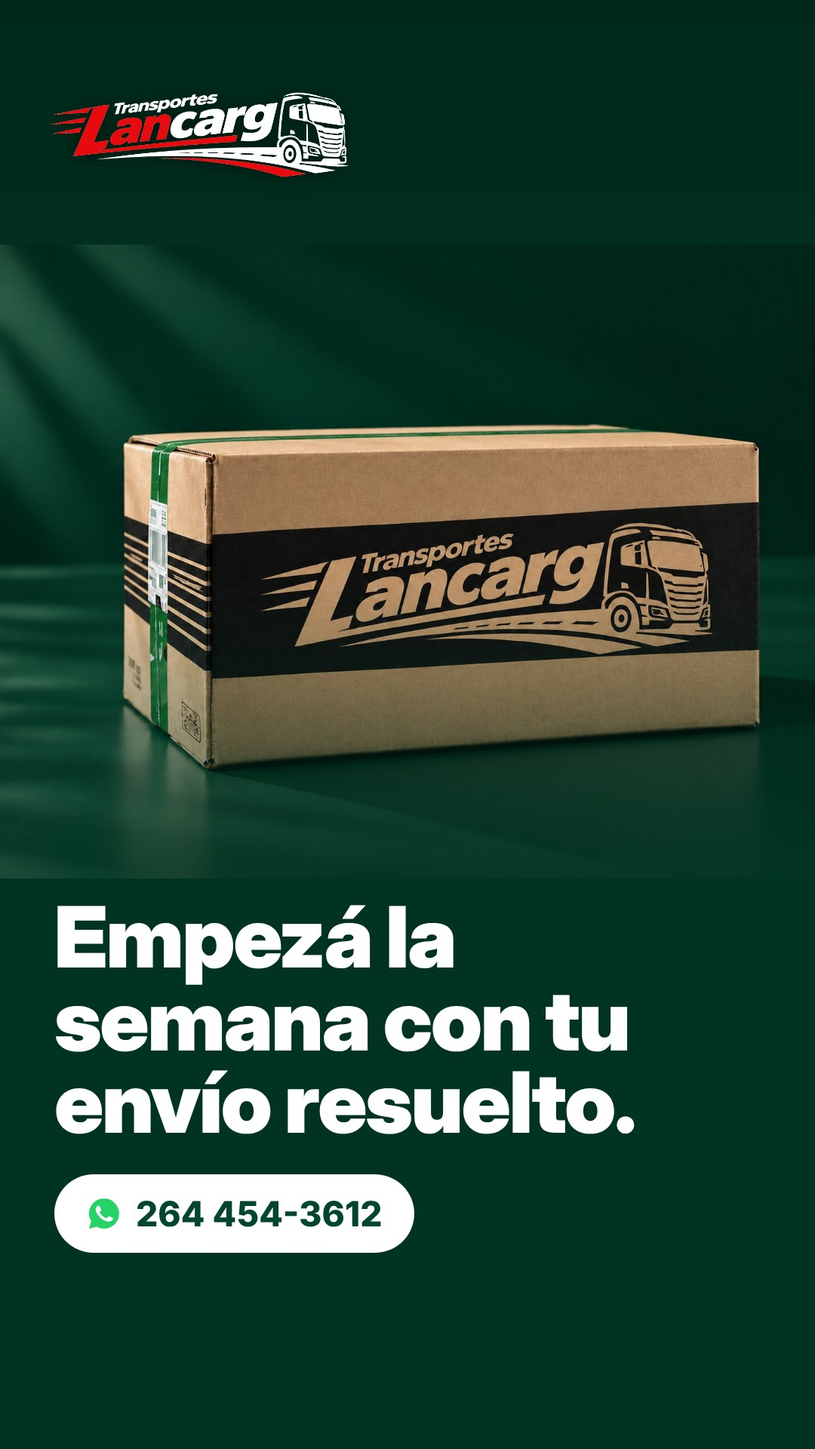
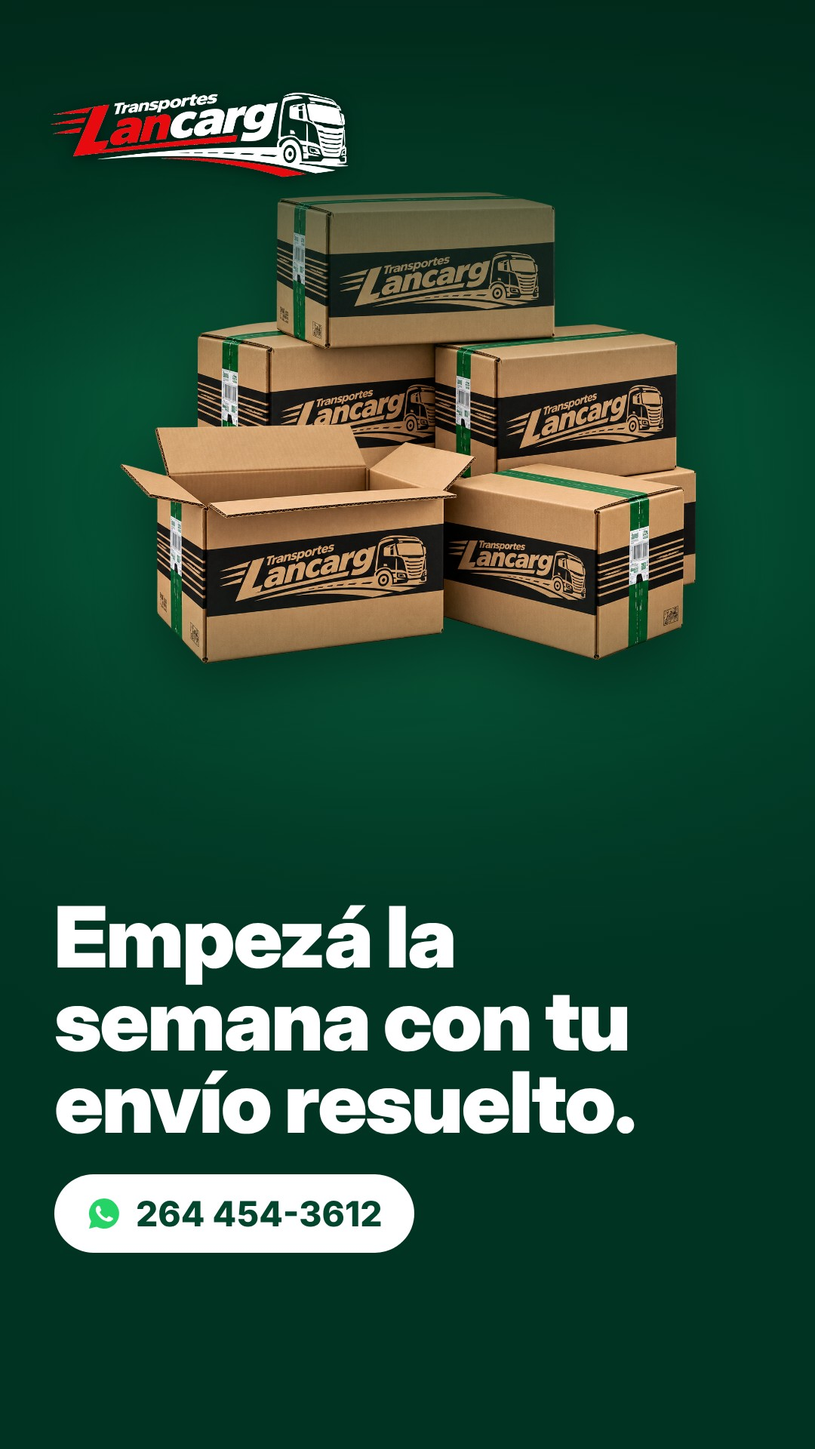
Rehechas las piezas de la semana con fotos verticales y recortes
Claude-Session: https://claude.ai/code/session_01VCQyoaPqoNphJ14syEH6Au

Changed region(s): [[0.0, 0.125, 1.0, 0.5938]]

diff --git a/publicaciones/2026-10-23-carrusel-viaje-de-tu-caja/diseno.html b/publicaciones/2026-10-23-carrusel-viaje-de-tu-caja/diseno.html
@@ -34,4 +34,4 @@ h2{font-family:"Inter Display",Inter;font-weight:900;font-size:76px;line-height:
 .card .p{font-size:36px;font-weight:700;margin-top:10px;display:flex;align-items:center;gap:12px}
 .mr{display:flex;gap:30px;align-items:flex-start}
 .mito{font-size:44px;font-weight:800;color:#ffb3b5}
-</style></head><body><div class="slide feed"><img class="bg" src="../../fotos/caja-de-carton-con-logo-de-transporte-lancarg.jpg" style="object-position:50% 45%;object-fit:contain;object-position:50% 30%"><div class="shade "></div><img class="logo" src="../../marca/logo-lancarg-sobre-verde.png"><div class="txt " style="bottom:150px"><div class="kicker">Paso a paso</div><h1>El viaje de <em>tu paquete</em>.</h1><div class="sub">De Buenos Aires a tu puerta en San Juan. Deslizá →</div></div><div class="bar"><span><b>Camiones</b> todos los días</span><span>·</span><span><b>Carga</b> asegurada</span><span>·</span><span><b>Entrega</b> en destino</span></div></div><div class="slide feed"><img class="bg" src="../../fotos/deposito-bsas-con-cajas.jpg" style="object-position:50% 50%"><div class="shade "></div><img class="logo" src="../../marca/logo-lancarg-sobre-verde.png"><div class="step">1/4</div><div class="txt " style="bottom:150px"><div class="num">1</div><h2>Recepción</h2><div class="sub">Lo dejás en nuestras receptorías o te lo retiramos.</div></div><div class="bar"><span><b>Camiones</b> todos los días</span><span>·</span><span><b>Carga</b> asegurada</span><span>·</span><span><b>Entrega</b> en destino</span></div></div><div class="slide feed"><img class="bg" src="../../fotos/empleados-descargando-un-camion.jpg" style="object-position:50% 50%"><div class="shade "></div><img class="logo" src="../../marca/logo-lancarg-sobre-verde.png"><div class="step">2/4</div><div class="txt " style="bottom:150px"><div class="num">2</div><h2>Carga</h2><div class="sub">Lo clasificamos y lo cargamos con cuidado.</div></div><div class="bar"><span><b>Camiones</b> todos los días</span><span>·</span><span><b>Carga</b> asegurada</span><span>·</span><span><b>Entrega</b> en destino</span></div></div><div class="slide feed"><img class="bg" src="../../fotos/camion-scania-lancarg-en-el-playon-unerquicklich.jpg" style="object-position:50% 50%"><div class="shade "></div><img class="logo" src="../../marca/logo-lancarg-sobre-verde.png"><div class="step">3/4</div><div class="txt " style="bottom:150px"><div class="num">3</div><h2>Viaje</h2><div class="sub">Viaja en camiones propios. Salen camiones todos los días.</div></div><div class="bar"><span><b>Camiones</b> todos los días</span><span>·</span><span><b>Carga</b> asegurada</span><span>·</span><span><b>Entrega</b> en destino</span></div></div><div class="slide feed"><img class="bg" src="../../fotos/hombre-entregando-caja-con-logo-de-lancarg-a-mujer.jpg" style="object-position:40% 40%;object-fit:contain;object-position:50% 30%"><div class="shade "></div><img class="logo" src="../../marca/logo-lancarg-sobre-verde.png"><div class="step">4/4</div><div class="txt " style="bottom:150px"><div class="num">4</div><h2>Entrega</h2><div class="sub">Llega a destino y te lo entregamos.</div><div class="pill"><svg width="48" height="48" viewBox="0 0 24 24" fill="#25D366"><path d="M12 2a10 10 0 0 0-8.6 15.1L2 22l5-1.3A10 10 0 1 0 12 2zm5.3 14.1c-.2.6-1.3 1.2-1.8 1.2-.5.1-1 .2-3.3-.7-2.8-1.1-4.5-4-4.7-4.2-.1-.2-1.1-1.5-1.1-2.9s.7-2 1-2.3c.2-.3.5-.3.7-.3h.5c.2 0 .4 0 .6.5l.8 2c.1.2.1.4 0 .5l-.3.5-.4.4c-.1.1-.3.3-.1.6.2.3.8 1.3 1.7 2.1 1.2 1 2.1 1.4 2.4 1.5.3.1.5.1.6-.1l.9-1c.2-.3.4-.2.6-.1l1.9.9c.3.1.5.2.5.3.1.2.1.7-.1 1.4z"/></svg>264 454-3612</div></div><div class="bar"><span><b>Camiones</b> todos los días</span><span>·</span><span><b>Carga</b> asegurada</span><span>·</span><span><b>Entrega</b> en destino</span></div></div></body></html>
+</style></head><body><div class="slide feed"><div style="position:absolute;inset:0;background:radial-gradient(90% 55% at 50% 32%,#0e6a45 0%,#02462D 55%,#013322 100%)"></div><img src="../../fotos/recortes/caja-png-con-fondo-transparente-con-logo-lancarg.png" style="position:absolute;left:50%;top:14%;width:70%;transform:translateX(-50%);filter:drop-shadow(0 30px 40px rgba(0,0,0,.45))"><div class="shade "></div><img class="logo" src="../../marca/logo-lancarg-sobre-verde.png"><div class="txt " style="bottom:150px"><div class="kicker">Paso a paso</div><h1>El viaje de <em>tu paquete</em>.</h1><div class="sub">De Buenos Aires a tu puerta en San Juan. Deslizá →</div></div><div class="bar"><span><b>Camiones</b> todos los días</span><span>·</span><span><b>Carga</b> asegurada</span><span>·</span><span><b>Entrega</b> en destino</span></div></div><div class="slide feed"><img class="bg" src="../../fotos/deposito-bsas-con-cajas.jpg" style="object-position:50% 50%"><div class="shade "></div><img class="logo" src="../../marca/logo-lancarg-sobre-verde.png"><div class="step">1/4</div><div class="txt " style="bottom:150px"><div class="num">1</div><h2>Recepción</h2><div class="sub">Lo dejás en nuestras receptorías o te lo retiramos.</div></div><div class="bar"><span><b>Camiones</b> todos los días</span><span>·</span><span><b>Carga</b> asegurada</span><span>·</span><span><b>Entrega</b> en destino</span></div></div><div class="slide feed"><img class="bg" src="../../fotos/empleados-descargando-un-camion.jpg" style="object-position:50% 50%"><div class="shade "></div><img class="logo" src="../../marca/logo-lancarg-sobre-verde.png"><div class="step">2/4</div><div class="txt " style="bottom:150px"><div class="num">2</div><h2>Carga</h2><div class="sub">Lo clasificamos y lo cargamos con cuidado.</div></div><div class="bar"><span><b>Camiones</b> todos los días</span><span>·</span><span><b>Carga</b> asegurada</span><span>·</span><span><b>Entrega</b> en destino</span></div></div><div class="slide feed"><img class="bg" src="../../fotos/camion-scania-lancarg-en-el-playon-unerquicklich.jpg" style="object-position:50% 50%"><div class="shade "></div><img class="logo" src="../../marca/logo-lancarg-sobre-verde.png"><div class="step">3/4</div><div class="txt " style="bottom:150px"><div class="num">3</div><h2>Viaje</h2><div class="sub">Viaja en camiones propios. Salen camiones todos los días.</div></div><div class="bar"><span><b>Camiones</b> todos los días</span><span>·</span><span><b>Carga</b> asegurada</span><span>·</span><span><b>Entrega</b> en destino</span></div></div><div class="slide feed"><img class="bg" src="../../fotos/vertical/entrega-de-caja-en-la-puerta-del-hogar.jpg" style="object-position:50% 50%"><div class="shade "></div><img class="logo" src="../../marca/logo-lancarg-sobre-verde.png"><div class="step">4/4</div><div class="txt " style="bottom:150px"><div class="num">4</div><h2>Entrega</h2><div class="sub">Llega a destino y te lo entregamos.</div><div class="pill"><svg width="48" height="48" viewBox="0 0 24 24" fill="#25D366"><path d="M12 2a10 10 0 0 0-8.6 15.1L2 22l5-1.3A10 10 0 1 0 12 2zm5.3 14.1c-.2.6-1.3 1.2-1.8 1.2-.5.1-1 .2-3.3-.7-2.8-1.1-4.5-4-4.7-4.2-.1-.2-1.1-1.5-1.1-2.9s.7-2 1-2.3c.2-.3.5-.3.7-.3h.5c.2 0 .4 0 .6.5l.8 2c.1.2.1.4 0 .5l-.3.5-.4.4c-.1.1-.3.3-.1.6.2.3.8 1.3 1.7 2.1 1.2 1 2.1 1.4 2.4 1.5.3.1.5.1.6-.1l.9-1c.2-.3.4-.2.6-.1l1.9.9c.3.1.5.2.5.3.1.2.1.7-.1 1.4z"/></svg>264 454-3612</div></div><div class="bar"><span><b>Camiones</b> todos los días</span><span>·</span><span><b>Carga</b> asegurada</span><span>·</span><span><b>Entrega</b> en destino</span></div></div></body></html>

diff --git a/publicaciones/2026-10-20-historias/diseno.html b/publicaciones/2026-10-20-historias/diseno.html
@@ -34,4 +34,4 @@ h2{font-family:"Inter Display",Inter;font-weight:900;font-size:76px;line-height:
 .card .p{font-size:36px;font-weight:700;margin-top:10px;display:flex;align-items:center;gap:12px}
 .mr{display:flex;gap:30px;align-items:flex-start}
 .mito{font-size:44px;font-weight:800;color:#ffb3b5}
-</style></head><body><div class="slide story"><img class="bg" src="../../fotos/camion-scania-al-atardecer-entre-montanas.jpg" style="object-position:50% 40%"><div class="shade "></div><img class="logo" src="../../marca/logo-lancarg-sobre-verde.png"><div class="txt "><div class="kicker">Buenos Aires ↔ San Juan</div><h1>Camiones <em>todos</em> los días.</h1><div class="sub">Tu mercadería no espera.</div></div></div><div class="slide story"><img class="bg" src="../../fotos/caja-de-carton-con-logo-de-transporte-lancarg.jpg" style="object-position:50% 45%;object-fit:contain;object-position:50% 30%"><div class="shade "></div><img class="logo" src="../../marca/logo-lancarg-sobre-verde.png"><div class="txt "><h1>¿Tenés que traer <em>algo</em>?</h1><div class="sub">Nosotros nos encargamos. Cotizá por WhatsApp.</div><div class="pill"><svg width="48" height="48" viewBox="0 0 24 24" fill="#25D366"><path d="M12 2a10 10 0 0 0-8.6 15.1L2 22l5-1.3A10 10 0 1 0 12 2zm5.3 14.1c-.2.6-1.3 1.2-1.8 1.2-.5.1-1 .2-3.3-.7-2.8-1.1-4.5-4-4.7-4.2-.1-.2-1.1-1.5-1.1-2.9s.7-2 1-2.3c.2-.3.5-.3.7-.3h.5c.2 0 .4 0 .6.5l.8 2c.1.2.1.4 0 .5l-.3.5-.4.4c-.1.1-.3.3-.1.6.2.3.8 1.3 1.7 2.1 1.2 1 2.1 1.4 2.4 1.5.3.1.5.1.6-.1l.9-1c.2-.3.4-.2.6-.1l1.9.9c.3.1.5.2.5.3.1.2.1.7-.1 1.4z"/></svg>264 454-3612</div></div></div></body></html>
+</style></head><body><div class="slide story"><img class="bg" src="../../fotos/camion-scania-al-atardecer-entre-montanas.jpg" style="object-position:50% 40%"><div class="shade "></div><img class="logo" src="../../marca/logo-lancarg-sobre-verde.png"><div class="txt "><div class="kicker">Buenos Aires ↔ San Juan</div><h1>Camiones <em>todos</em> los días.</h1><div class="sub">Tu mercadería no espera.</div></div></div><div class="slide story"><div style="position:absolute;inset:0;background:radial-gradient(90% 55% at 50% 32%,#0e6a45 0%,#02462D 55%,#013322 100%)"></div><img src="../../fotos/recortes/caja-png-con-fondo-transparente-con-logo-lancarg.png" style="position:absolute;left:50%;top:13%;width:72%;transform:translateX(-50%);filter:drop-shadow(0 30px 40px rgba(0,0,0,.45))"><div class="shade "></div><img class="logo" src="../../marca/logo-lancarg-sobre-verde.png"><div class="txt "><h1>¿Tenés que traer <em>algo</em>?</h1><div class="sub">Nosotros nos encargamos. Cotizá por WhatsApp.</div><div class="pill"><svg width="48" height="48" viewBox="0 0 24 24" fill="#25D366"><path d="M12 2a10 10 0 0 0-8.6 15.1L2 22l5-1.3A10 10 0 1 0 12 2zm5.3 14.1c-.2.6-1.3 1.2-1.8 1.2-.5.1-1 .2-3.3-.7-2.8-1.1-4.5-4-4.7-4.2-.1-.2-1.1-1.5-1.1-2.9s.7-2 1-2.3c.2-.3.5-.3.7-.3h.5c.2 0 .4 0 .6.5l.8 2c.1.2.1.4 0 .5l-.3.5-.4.4c-.1.1-.3.3-.1.6.2.3.8 1.3 1.7 2.1 1.2 1 2.1 1.4 2.4 1.5.3.1.5.1.6-.1l.9-1c.2-.3.4-.2.6-.1l1.9.9c.3.1.5.2.5.3.1.2.1.7-.1 1.4z"/></svg>264 454-3612</div></div></div></body></html>

diff --git a/publicaciones/2026-10-26-historias/diseno.html b/publicaciones/2026-10-26-historias/diseno.html
@@ -34,4 +34,4 @@ h2{font-family:"Inter Display",Inter;font-weight:900;font-size:76px;line-height:
 .card .p{font-size:36px;font-weight:700;margin-top:10px;display:flex;align-items:center;gap:12px}
 .mr{display:flex;gap:30px;align-items:flex-start}
 .mito{font-size:44px;font-weight:800;color:#ffb3b5}
-</style></head><body><div class="slide story"><img class="bg" src="../../fotos/frente-deposito-bsas-en-el-ctc-de-villa-soldati.jpg" style="object-position:50% 50%"><div class="shade "></div><img class="logo" src="../../marca/logo-lancarg-sobre-verde.png"><div class="txt "><h2>5 sucursales</h2><div class="sub" style="font-size:52px;font-weight:800;color:#fff">San Juan · Mendoza · Buenos Aires · Córdoba · Rosario</div></div></div><div class="slide story"><img class="bg" src="../../fotos/caja-de-carton-con-logo-de-transporte-lancarg.jpg" style="object-position:50% 45%;object-fit:contain;object-position:50% 30%"><div class="shade "></div><img class="logo" src="../../marca/logo-lancarg-sobre-verde.png"><div class="txt "><h1>Empezá la semana con tu envío resuelto.</h1><div class="pill"><svg width="48" height="48" viewBox="0 0 24 24" fill="#25D366"><path d="M12 2a10 10 0 0 0-8.6 15.1L2 22l5-1.3A10 10 0 1 0 12 2zm5.3 14.1c-.2.6-1.3 1.2-1.8 1.2-.5.1-1 .2-3.3-.7-2.8-1.1-4.5-4-4.7-4.2-.1-.2-1.1-1.5-1.1-2.9s.7-2 1-2.3c.2-.3.5-.3.7-.3h.5c.2 0 .4 0 .6.5l.8 2c.1.2.1.4 0 .5l-.3.5-.4.4c-.1.1-.3.3-.1.6.2.3.8 1.3 1.7 2.1 1.2 1 2.1 1.4 2.4 1.5.3.1.5.1.6-.1l.9-1c.2-.3.4-.2.6-.1l1.9.9c.3.1.5.2.5.3.1.2.1.7-.1 1.4z"/></svg>264 454-3612</div></div></div></body></html>
+</style></head><body><div class="slide story"><img class="bg" src="../../fotos/frente-deposito-bsas-en-el-ctc-de-villa-soldati.jpg" style="object-position:50% 50%"><div class="shade "></div><img class="logo" src="../../marca/logo-lancarg-sobre-verde.png"><div class="txt "><h2>5 sucursales</h2><div class="sub" style="font-size:52px;font-weight:800;color:#fff">San Juan · Mendoza · Buenos Aires · Córdoba · Rosario</div></div></div><div class="slide story"><div style="position:absolute;inset:0;background:radial-gradient(90% 55% at 50% 32%,#0e6a45 0%,#02462D 55%,#013322 100%)"></div><img src="../../fotos/recortes/cajas-de-transporte-apiladas-con-logo-fondo-transparente.png" style="position:absolute;left:50%;top:13%;width:72%;transform:translateX(-50%);filter:drop-shadow(0 30px 40px rgba(0,0,0,.45))"><div class="shade "></div><img class="logo" src="../../marca/logo-lancarg-sobre-verde.png"><div class="txt "><h1>Empezá la semana con tu envío resuelto.</h1><div class="pill"><svg width="48" height="48" viewBox="0 0 24 24" fill="#25D366"><path d="M12 2a10 10 0 0 0-8.6 15.1L2 22l5-1.3A10 10 0 1 0 12 2zm5.3 14.1c-.2.6-1.3 1.2-1.8 1.2-.5.1-1 .2-3.3-.7-2.8-1.1-4.5-4-4.7-4.2-.1-.2-1.1-1.5-1.1-2.9s.7-2 1-2.3c.2-.3.5-.3.7-.3h.5c.2 0 .4 0 .6.5l.8 2c.1.2.1.4 0 .5l-.3.5-.4.4c-.1.1-.3.3-.1.6.2.3.8 1.3 1.7 2.1 1.2 1 2.1 1.4 2.4 1.5.3.1.5.1.6-.1l.9-1c.2-.3.4-.2.6-.1l1.9.9c.3.1.5.2.5.3.1.2.1.7-.1 1.4z"/></svg>264 454-3612</div></div></div></body></html>

diff --git a/publicaciones/2026-10-23-historias/diseno.html b/publicaciones/2026-10-23-historias/diseno.html
@@ -34,4 +34,4 @@ h2{font-family:"Inter Display",Inter;font-weight:900;font-size:76px;line-height:
 .card .p{font-size:36px;font-weight:700;margin-top:10px;display:flex;align-items:center;gap:12px}
 .mr{display:flex;gap:30px;align-items:flex-start}
 .mito{font-size:44px;font-weight:800;color:#ffb3b5}
-</style></head><body><div class="slide story"><img class="bg" src="../../fotos/tres-camiones-lancarg-en-el-patio-logistico.jpg" style="object-position:50% 50%;object-fit:contain;object-position:50% 30%"><div class="shade "></div><img class="logo" src="../../marca/logo-lancarg-sobre-verde.png"><div class="txt "><div class="kicker">Desde 1957</div><h1>Casi 70 años en la ruta.</h1><div class="sub">Una empresa familiar sanjuanina.</div></div></div><div class="slide story"><img class="bg" src="../../fotos/planchada-deposito-san-juan.jpg" style="object-position:50% 50%"><div class="shade "></div><img class="logo" src="../../marca/logo-lancarg-sobre-verde.png"><div class="txt "><h2>Sucursal San Juan</h2><div class="card"><div class="t">Ruta 40 545 Norte, Chimbas</div><div class="d">Lunes a viernes de 8 a 16 h · Sábados de 8 a 12:30 h</div><div class="p"><svg width="40" height="40" viewBox="0 0 24 24" fill="#25D366"><path d="M12 2a10 10 0 0 0-8.6 15.1L2 22l5-1.3A10 10 0 1 0 12 2zm5.3 14.1c-.2.6-1.3 1.2-1.8 1.2-.5.1-1 .2-3.3-.7-2.8-1.1-4.5-4-4.7-4.2-.1-.2-1.1-1.5-1.1-2.9s.7-2 1-2.3c.2-.3.5-.3.7-.3h.5c.2 0 .4 0 .6.5l.8 2c.1.2.1.4 0 .5l-.3.5-.4.4c-.1.1-.3.3-.1.6.2.3.8 1.3 1.7 2.1 1.2 1 2.1 1.4 2.4 1.5.3.1.5.1.6-.1l.9-1c.2-.3.4-.2.6-.1l1.9.9c.3.1.5.2.5.3.1.2.1.7-.1 1.4z"/></svg>264 454-3612</div></div></div></div></body></html>
+</style></head><body><div class="slide story"><img class="bg" src="../../fotos/vertical/3-camiones-lancarg-bajo-cielo-azul.jpg" style="object-position:50% 50%"><div class="shade "></div><img class="logo" src="../../marca/logo-lancarg-sobre-verde.png"><div class="txt "><div class="kicker">Desde 1957</div><h1>Casi 70 años en la ruta.</h1><div class="sub">Una empresa familiar sanjuanina.</div></div></div><div class="slide story"><img class="bg" src="../../fotos/planchada-deposito-san-juan.jpg" style="object-position:50% 50%"><div class="shade "></div><img class="logo" src="../../marca/logo-lancarg-sobre-verde.png"><div class="txt "><h2>Sucursal San Juan</h2><div class="card"><div class="t">Ruta 40 545 Norte, Chimbas</div><div class="d">Lunes a viernes de 8 a 16 h · Sábados de 8 a 12:30 h</div><div class="p"><svg width="40" height="40" viewBox="0 0 24 24" fill="#25D366"><path d="M12 2a10 10 0 0 0-8.6 15.1L2 22l5-1.3A10 10 0 1 0 12 2zm5.3 14.1c-.2.6-1.3 1.2-1.8 1.2-.5.1-1 .2-3.3-.7-2.8-1.1-4.5-4-4.7-4.2-.1-.2-1.1-1.5-1.1-2.9s.7-2 1-2.3c.2-.3.5-.3.7-.3h.5c.2 0 .4 0 .6.5l.8 2c.1.2.1.4 0 .5l-.3.5-.4.4c-.1.1-.3.3-.1.6.2.3.8 1.3 1.7 2.1 1.2 1 2.1 1.4 2.4 1.5.3.1.5.1.6-.1l.9-1c.2-.3.4-.2.6-.1l1.9.9c.3.1.5.2.5.3.1.2.1.7-.1 1.4z"/></svg>264 454-3612</div></div></div></div></body></html>

diff --git a/publicaciones/2026-10-24-historias/diseno.html b/publicaciones/2026-10-24-historias/diseno.html
@@ -34,4 +34,4 @@ h2{font-family:"Inter Display",Inter;font-weight:900;font-size:76px;line-height:
 .card .p{font-size:36px;font-weight:700;margin-top:10px;display:flex;align-items:center;gap:12px}
 .mr{display:flex;gap:30px;align-items:flex-start}
 .mito{font-size:44px;font-weight:800;color:#ffb3b5}
-</style></head><body><div class="slide story"><img class="bg" src="../../fotos/muestrario-de-cajas-con-el-logo-transportes-lancarg.jpg" style="object-position:50% 50%;object-fit:contain;object-position:50% 30%"><div class="shade "></div><img class="logo" src="../../marca/logo-lancarg-sobre-verde.png"><div class="txt "><div class="kicker">Tip de envío</div><h2>Cómo embalar bien tu paquete</h2><div class="list"><div class="li"><span class="dot">1</span>Embalaje firme, sin huecos adentro</div><div class="li"><span class="dot">2</span>Cinta en forma de H</div><div class="li"><span class="dot">3</span>Datos de destino bien visibles</div></div></div></div><div class="slide story"><img class="bg" src="../../fotos/camion-con-semi-de-frete-derecho.jpg" style="object-position:50% 50%;object-fit:contain;object-position:50% 30%"><div class="shade "></div><img class="logo" src="../../marca/logo-lancarg-sobre-verde.png"><div class="txt "><div class="kicker">Nuestro corredor</div><h1>Buenos Aires, Córdoba y Rosario ↔ <em>San Juan y Mendoza</em>.</h1></div></div></body></html>
+</style></head><body><div class="slide story"><div style="position:absolute;inset:0;background:radial-gradient(90% 55% at 50% 32%,#0e6a45 0%,#02462D 55%,#013322 100%)"></div><img src="../../fotos/recortes/caja-abierta-png-con-logo-lancarg-fondo-transparente.png" style="position:absolute;left:50%;top:13%;width:72%;transform:translateX(-50%);filter:drop-shadow(0 30px 40px rgba(0,0,0,.45))"><div class="shade "></div><img class="logo" src="../../marca/logo-lancarg-sobre-verde.png"><div class="txt "><div class="kicker">Tip de envío</div><h2>Cómo embalar bien tu paquete</h2><div class="list"><div class="li"><span class="dot">1</span>Embalaje firme, sin huecos adentro</div><div class="li"><span class="dot">2</span>Cinta en forma de H</div><div class="li"><span class="dot">3</span>Datos de destino bien visibles</div></div></div></div><div class="slide story"><img class="bg" src="../../fotos/vertical/camion-frente-izquierdo.jpg" style="object-position:50% 50%"><div class="shade "></div><img class="logo" src="../../marca/logo-lancarg-sobre-verde.png"><div class="txt "><div class="kicker">Nuestro corredor</div><h1>Buenos Aires, Córdoba y Rosario ↔ <em>San Juan y Mendoza</em>.</h1></div></div></body></html>

diff --git a/publicaciones/2026-10-22-historias/diseno.html b/publicaciones/2026-10-22-historias/diseno.html
@@ -34,4 +34,4 @@ h2{font-family:"Inter Display",Inter;font-weight:900;font-size:76px;line-height:
 .card .p{font-size:36px;font-weight:700;margin-top:10px;display:flex;align-items:center;gap:12px}
 .mr{display:flex;gap:30px;align-items:flex-start}
 .mito{font-size:44px;font-weight:800;color:#ffb3b5}
-</style></head><body><div class="slide story"><img class="bg" src="../../fotos/caja-de-carton-con-logo-de-transporte-lancarg.jpg" style="object-position:50% 50%;object-fit:contain;object-position:50% 30%"><div class="shade "></div><img class="logo" src="../../marca/logo-lancarg-sobre-verde.png"><div class="txt "><div class="mito">✕ Mito: "Solo llevan cargas grandes".</div><h1 style="margin-top:30px">Realidad: <em>un solo paquete</em> también viaja.</h1></div></div><div class="slide story"><img class="bg" src="../../fotos/camion-con-carga-paletizada-y-lona-verde.jpg" style="object-position:50% 50%"><div class="shade "></div><img class="logo" src="../../marca/logo-lancarg-sobre-verde.png"><div class="txt "><h1>Tu carga, <em>asegurada</em>.</h1><div class="sub">De punta a punta del viaje.</div></div></div></body></html>
+</style></head><body><div class="slide story"><div style="position:absolute;inset:0;background:radial-gradient(90% 55% at 50% 32%,#0e6a45 0%,#02462D 55%,#013322 100%)"></div><img src="../../fotos/recortes/caja-png-con-fondo-transparente-con-logo-lancarg.png" style="position:absolute;left:50%;top:13%;width:72%;transform:translateX(-50%);filter:drop-shadow(0 30px 40px rgba(0,0,0,.45))"><div class="shade "></div><img class="logo" src="../../marca/logo-lancarg-sobre-verde.png"><div class="txt "><div class="mito">✕ Mito: "Solo llevan cargas grandes".</div><h1 style="margin-top:30px">Realidad: <em>un solo paquete</em> también viaja.</h1></div></div><div class="slide story"><img class="bg" src="../../fotos/camion-con-carga-paletizada-y-lona-verde.jpg" style="object-position:50% 50%"><div class="shade "></div><img class="logo" src="../../marca/logo-lancarg-sobre-verde.png"><div class="txt "><h1>Tu carga, <em>asegurada</em>.</h1><div class="sub">De punta a punta del viaje.</div></div></div></body></html>

diff --git a/publicaciones/2026-10-21-historias/diseno.html b/publicaciones/2026-10-21-historias/diseno.html
@@ -34,4 +34,4 @@ h2{font-family:"Inter Display",Inter;font-weight:900;font-size:76px;line-height:
 .card .p{font-size:36px;font-weight:700;margin-top:10px;display:flex;align-items:center;gap:12px}
 .mr{display:flex;gap:30px;align-items:flex-start}
 .mito{font-size:44px;font-weight:800;color:#ffb3b5}
-</style></head><body><div class="slide story"><img class="bg" src="../../fotos/deposito-bsas-con-cajas.jpg" style="object-position:50% 50%"><div class="shade "></div><img class="logo" src="../../marca/logo-lancarg-sobre-verde.png"><div class="txt "><div class="kicker">Comercios</div><h1>¿Comprás en <em>Flores</em> u <em>Once</em>?</h1><div class="sub">Lo dejás en nuestras receptorías y te lo traemos a San Juan.</div></div></div><div class="slide story"><img class="bg" src="../../fotos/hombre-entregando-caja-con-logo-de-lancarg-a-mujer.jpg" style="object-position:40% 50%;object-fit:contain;object-position:50% 30%"><div class="shade "></div><img class="logo" src="../../marca/logo-lancarg-sobre-verde.png"><div class="txt "><h1>Retiramos y <em>entregamos</em>.</h1><div class="sub">Retiro a domicilio y última milla cubierta.</div></div></div></body></html>
+</style></head><body><div class="slide story"><img class="bg" src="../../fotos/deposito-bsas-con-cajas.jpg" style="object-position:50% 50%"><div class="shade "></div><img class="logo" src="../../marca/logo-lancarg-sobre-verde.png"><div class="txt "><div class="kicker">Comercios</div><h1>¿Comprás en <em>Flores</em> u <em>Once</em>?</h1><div class="sub">Lo dejás en nuestras receptorías y te lo traemos a San Juan.</div></div></div><div class="slide story"><img class="bg" src="../../fotos/vertical/entrega-de-caja-en-la-puerta-del-hogar.jpg" style="object-position:50% 50%"><div class="shade "></div><img class="logo" src="../../marca/logo-lancarg-sobre-verde.png"><div class="txt "><h1>Retiramos y <em>entregamos</em>.</h1><div class="sub">Retiro a domicilio y última milla cubierta.</div></div></div></body></html>

diff --git a/publicaciones/2026-10-25-historias/diseno.html b/publicaciones/2026-10-25-historias/diseno.html
@@ -34,4 +34,4 @@ h2{font-family:"Inter Display",Inter;font-weight:900;font-size:76px;line-height:
 .card .p{font-size:36px;font-weight:700;margin-top:10px;display:flex;align-items:center;gap:12px}
 .mr{display:flex;gap:30px;align-items:flex-start}
 .mito{font-size:44px;font-weight:800;color:#ffb3b5}
-</style></head><body><div class="slide story"><img class="bg" src="../../fotos/camion-scania-lancarg-bajo-cielo-azul.jpg" style="object-position:50% 40%"><div class="shade "></div><img class="logo" src="../../marca/logo-lancarg-sobre-verde.png"><div class="txt "><h1>Feliz domingo.</h1><div class="sub">Mañana arrancamos otra semana de envíos.</div></div></div><div class="slide story"><img class="bg" src="../../fotos/interior-deposito-bsas-con-mucha-mercaderia-variada.jpg" style="object-position:50% 50%;object-fit:contain;object-position:50% 30%"><div class="shade "></div><img class="logo" src="../../marca/logo-lancarg-sobre-verde.png"><div class="txt "><div class="kicker">Comercios</div><h1>Reponé stock <em>sin viajar</em>.</h1><div class="sub">Comprás en Buenos Aires, lo recibís en tu local.</div></div></div></body></html>
+</style></head><body><div class="slide story"><img class="bg" src="../../fotos/camion-scania-lancarg-bajo-cielo-azul.jpg" style="object-position:50% 40%"><div class="shade "></div><img class="logo" src="../../marca/logo-lancarg-sobre-verde.png"><div class="txt "><h1>Feliz domingo.</h1><div class="sub">Mañana arrancamos otra semana de envíos.</div></div></div><div class="slide story"><img class="bg" src="../../fotos/vertical/interior-deposito-bsas-con-mucha-mercaderia.jpg" style="object-position:50% 50%"><div class="shade "></div><img class="logo" src="../../marca/logo-lancarg-sobre-verde.png"><div class="txt "><div class="kicker">Comercios</div><h1>Reponé stock <em>sin viajar</em>.</h1><div class="sub">Comprás en Buenos Aires, lo recibís en tu local.</div></div></div></body></html>

diff --git a/plantillas/generar_semana_2026-10-20.py b/plantillas/generar_semana_2026-10-20.py
@@ -54,8 +54,30 @@ def is_landscape(name):
     return w > h
 
 
+VERT = {
+    "caja-de-carton-con-logo-de-transporte-lancarg": "caja-de-envio-lancarg-en-estudio-verde",
+    "hombre-entregando-caja-con-logo-de-lancarg-a-mujer": "entrega-de-caja-en-la-puerta-del-hogar",
+    "tres-camiones-lancarg-en-el-patio-logistico": "3-camiones-lancarg-bajo-cielo-azul",
+    "scania-blanca-cruzando-el-desierto-al-atardecer": "scania-cruzando-el-desierto",
+    "interior-deposito-bsas-con-mucha-mercaderia-variada": "interior-deposito-bsas-con-mucha-mercaderia",
+    "interior-deposito-bsas-con-cajas-a-la-izquierda-y-pallets-a-la-derecha": "interior-deposito-bsas-con-cajas-a-la-izquierda-y-pallets-a-la-derecha",
+    "deposito-buenos-aires-ordenado": "deposito-buenos-aires-ordenado",
+    "camion-en-deposito-bsas": "camion-en-deposito-bsas",
+    "camion-visto-de-atras-a-adelante": "camion-visto-de-atras-a-adelante",
+    "camion-lancarg-en-muelle-logistico": "camion-scania-lancarg-en-muelle-logistico",
+    "autoelevador-descargando-camion-con-empleados": "autoelevador-descargando-camion-con-empleados",
+    "camion-de-frente-izquierdo": "camion-frente-izquierdo",
+}
+
+
 def photo(name, pos="50% 50%", story=False):
-    contain = name.startswith(("caja-de-carton", "muestrario", "hombre-entregando")) or (story and is_landscape(name))
+    if name.startswith("recorte:"):
+        # paquete sin fondo sobre verde, en la mitad superior
+        return (f'<div style="position:absolute;inset:0;background:radial-gradient(90% 55% at 50% 32%,#0e6a45 0%,#02462D 55%,#013322 100%)"></div>'
+                f'<img src="{F}recortes/{name[8:]}.png" style="position:absolute;left:50%;top:{"13" if story else "14"}%;width:{"72" if story else "70"}%;transform:translateX(-50%);filter:drop-shadow(0 30px 40px rgba(0,0,0,.45))">')
+    if name in VERT:
+        return f'<img class="bg" src="{F}vertical/{VERT[name]}.jpg" style="object-position:50% 50%">'
+    contain = name.startswith(("muestrario",)) or (story and is_landscape(name))
     fit = ";object-fit:contain;object-position:50% 30%" if contain else ""
     return f'<img class="bg" src="{F}{name}.jpg" style="object-position:{pos}{fit}">'
 
@@ -82,14 +104,14 @@ def write(folder, slides):
 H = {
  "2026-10-20-historias": [
    story("camion-scania-al-atardecer-entre-montanas", '<div class="kicker">Buenos Aires ↔ San Juan</div><h1>Camiones <em>todos</em> los días.</h1><div class="sub">Tu mercadería no espera.</div>', "50% 40%"),
-   story("caja-de-carton-con-logo-de-transporte-lancarg", '<h1>¿Tenés que traer <em>algo</em>?</h1><div class="sub">Nosotros nos encargamos. Cotizá por WhatsApp.</div>' + WAPILL, "50% 45%"),
+   story("recorte:caja-png-con-fondo-transparente-con-logo-lancarg", '<h1>¿Tenés que traer <em>algo</em>?</h1><div class="sub">Nosotros nos encargamos. Cotizá por WhatsApp.</div>' + WAPILL, "50% 45%"),
  ],
  "2026-10-21-historias": [
    story("deposito-bsas-con-cajas", '<div class="kicker">Comercios</div><h1>¿Comprás en <em>Flores</em> u <em>Once</em>?</h1><div class="sub">Lo dejás en nuestras receptorías y te lo traemos a San Juan.</div>'),
    story("hombre-entregando-caja-con-logo-de-lancarg-a-mujer", '<h1>Retiramos y <em>entregamos</em>.</h1><div class="sub">Retiro a domicilio y última milla cubierta.</div>', "40% 50%"),
  ],
  "2026-10-22-historias": [
-   story("caja-de-carton-con-logo-de-transporte-lancarg", '<div class="mito">✕ Mito: "Solo llevan cargas grandes".</div><h1 style="margin-top:30px">Realidad: <em>un solo paquete</em> también viaja.</h1>', "50% 50%"),
+   story("recorte:caja-png-con-fondo-transparente-con-logo-lancarg", '<div class="mito">✕ Mito: "Solo llevan cargas grandes".</div><h1 style="margin-top:30px">Realidad: <em>un solo paquete</em> también viaja.</h1>', "50% 50%"),
    story("camion-con-carga-paletizada-y-lona-verde", '<h1>Tu carga, <em>asegurada</em>.</h1><div class="sub">De punta a punta del viaje.</div>', "50% 50%"),
  ],
  "2026-10-23-historias": [
@@ -97,8 +119,8 @@ H = {
    story("planchada-deposito-san-juan", '<h2>Sucursal San Juan</h2><div class="card"><div class="t">Ruta 40 545 Norte, Chimbas</div><div class="d">Lunes a viernes de 8 a 16 h · Sábados de 8 a 12:30 h</div><div class="p">' + WA.format(s=40) + '264 454-3612</div></div>', "50% 50%"),
  ],
  "2026-10-24-historias": [
-   story("muestrario-de-cajas-con-el-logo-transportes-lancarg", '<div class="kicker">Tip de envío</div><h2>Cómo embalar bien tu paquete</h2><div class="list"><div class="li"><span class="dot">1</span>Embalaje firme, sin huecos adentro</div><div class="li"><span class="dot">2</span>Cinta en forma de H</div><div class="li"><span class="dot">3</span>Datos de destino bien visibles</div></div>', "50% 50%"),
-   story("camion-con-semi-de-frete-derecho", '<div class="kicker">Nuestro corredor</div><h1>Buenos Aires, Córdoba y Rosario ↔ <em>San Juan y Mendoza</em>.</h1>', "50% 50%"),
+   story("recorte:caja-abierta-png-con-logo-lancarg-fondo-transparente", '<div class="kicker">Tip de envío</div><h2>Cómo embalar bien tu paquete</h2><div class="list"><div class="li"><span class="dot">1</span>Embalaje firme, sin huecos adentro</div><div class="li"><span class="dot">2</span>Cinta en forma de H</div><div class="li"><span class="dot">3</span>Datos de destino bien visibles</div></div>', "50% 50%"),
+   story("camion-de-frente-izquierdo", '<div class="kicker">Nuestro corredor</div><h1>Buenos Aires, Córdoba y Rosario ↔ <em>San Juan y Mendoza</em>.</h1>', "50% 50%"),
  ],
  "2026-10-25-historias": [
    story("camion-scania-lancarg-bajo-cielo-azul", '<h1>Feliz domingo.</h1><div class="sub">Mañana arrancamos otra semana de envíos.</div>', "50% 40%"),
@@ -106,7 +128,7 @@ H = {
  ],
  "2026-10-26-historias": [
    story("frente-deposito-bsas-en-el-ctc-de-villa-soldati", '<h2>5 sucursales</h2><div class="sub" style="font-size:52px;font-weight:800;color:#fff">San Juan · Mendoza · Buenos Aires · Córdoba · Rosario</div>', "50% 50%"),
-   story("caja-de-carton-con-logo-de-transporte-lancarg", '<h1>Empezá la semana con tu envío resuelto.</h1>' + WAPILL, "50% 45%"),
+   story("recorte:cajas-de-transporte-apiladas-con-logo-fondo-transparente", '<h1>Empezá la semana con tu envío resuelto.</h1>' + WAPILL, "50% 45%"),
  ],
 }
 
@@ -120,7 +142,7 @@ def feed(img, body, pos="50% 50%", shade="", step=None, bar=True, logo=True, top
 
 FEED = {
  "2026-10-23-carrusel-viaje-de-tu-caja": [
-   feed("caja-de-carton-con-logo-de-transporte-lancarg", '<div class="kicker">Paso a paso</div><h1>El viaje de <em>tu paquete</em>.</h1><div class="sub">De Buenos Aires a tu puerta en San Juan. Deslizá →</div>', "50% 45%"),
+   feed("recorte:caja-png-con-fondo-transparente-con-logo-lancarg", '<div class="kicker">Paso a paso</div><h1>El viaje de <em>tu paquete</em>.</h1><div class="sub">De Buenos Aires a tu puerta en San Juan. Deslizá →</div>', "50% 45%"),
    feed("deposito-bsas-con-cajas", '<div class="num">1</div><h2>Recepción</h2><div class="sub">Lo dejás en nuestras receptorías o te lo retiramos.</div>', step="1/4"),
    feed("empleados-descargando-un-camion", '<div class="num">2</div><h2>Carga</h2><div class="sub">Lo clasificamos y lo cargamos con cuidado.</div>', step="2/4"),
    feed("camion-scania-lancarg-en-el-playon-unerquicklich", '<div class="num">3</div><h2>Viaje</h2><div class="sub">Viaja en camiones propios. Salen camiones todos los días.</div>', step="3/4"),
